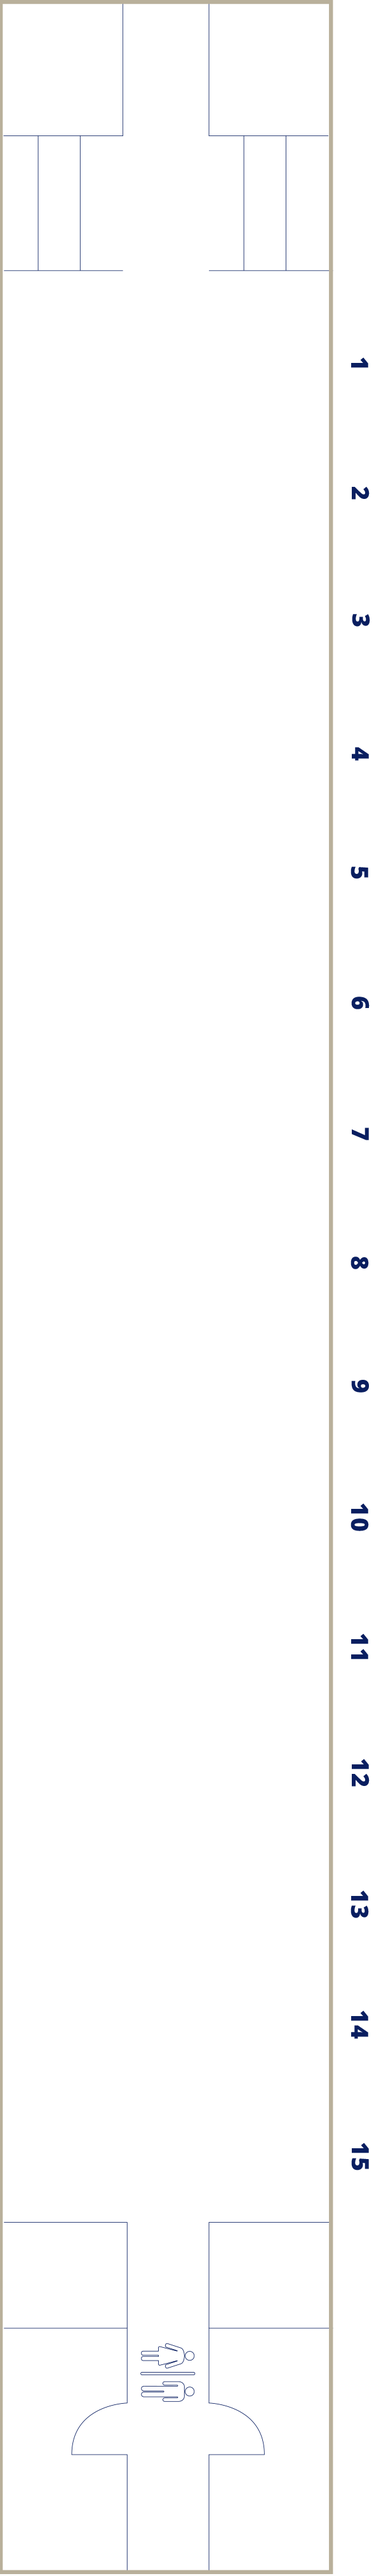
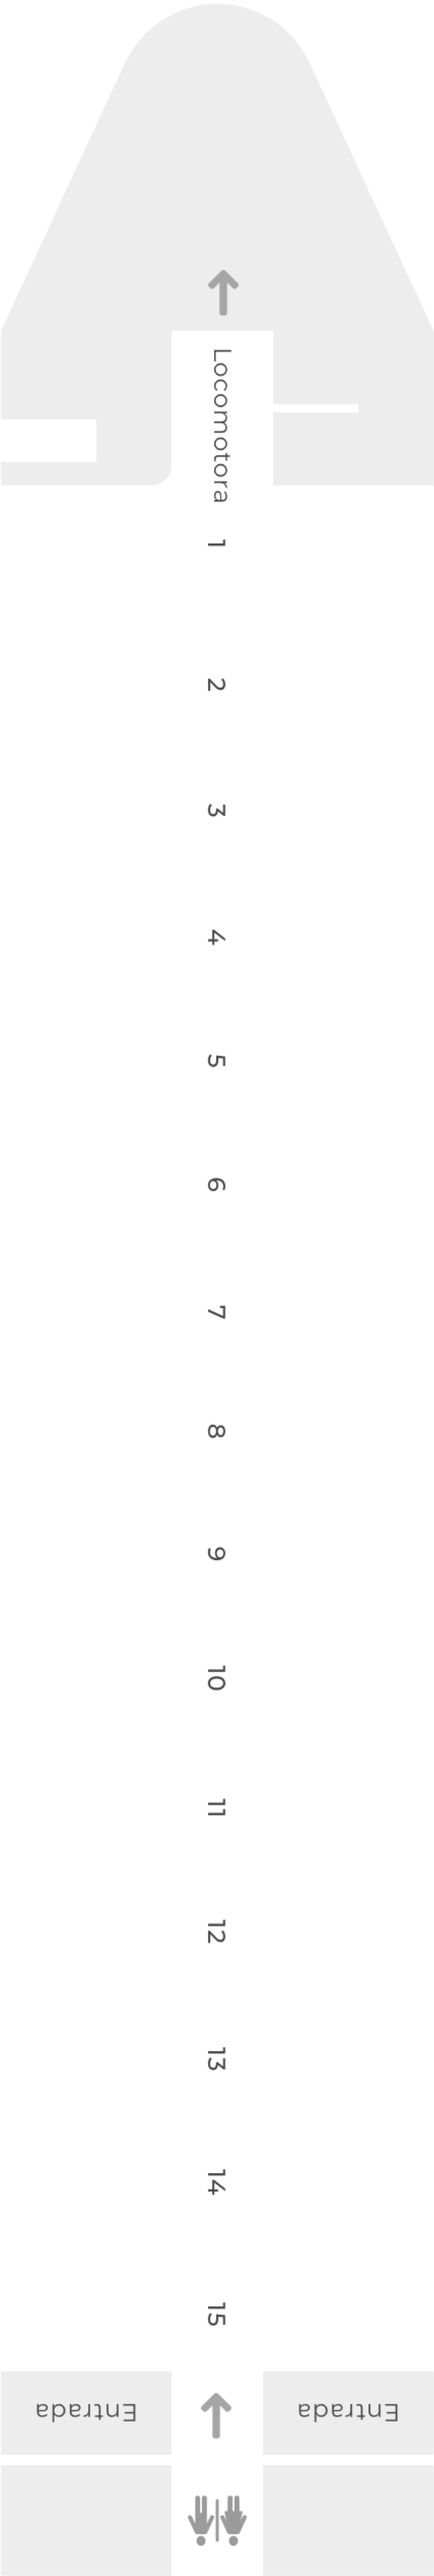
espacios tren, imagenes

diff --git a/rch-web/src/assets/css/global.css b/rch-web/src/assets/css/global.css
@@ -2290,8 +2290,8 @@ table.chepe.secondary tr:last-child {
 }
 
 .select-seat.classic .block-seats {
-    margin-top: 170px;
-    margin-right: 28px;
+    margin-top: 290px;
+    margin-right: -43px;
     margin-left: 2px;
 }
 
@@ -4241,6 +4241,13 @@ span.orange {
     height: 62px;
 }
 
+.select-seat.classic {
+    right: 6%;
+}
+.select-seat.classic .wagon-img-classic {
+    width: 123%;
+}
+
 
 /*---- Turista -----*/
 
@@ -4328,7 +4335,7 @@ FIXES RESPONSIVE
     }
     .seat-train {
         width: 100% !important;
-        height: 240px;
+        height: 352px;
     }
     /*.select-seat.premium {
         top: 70px;
@@ -4426,37 +4433,7 @@ FIXES RESPONSIVE
     }
 
 }
-@media (min-width: 1300px) {
-    .seat-train {
-        height: 416px;
-    }
-    .select-seat.classic, 
-    .select-seat.premium {
-        right: 0;
-    }
-    .select-seat .wagon-img-classic {
-        width: 105%;
-    }
-    .select-seat.premium .block-seats {
-        margin-top: 399px;
-        margin-right: -11px;
-        margin-left: -1px;
-    }
-    .select-seat.premium .row-seats {
-        margin-bottom: 8px;
-    }
-    .select-seat .row-seats .seat {
-        width: 44px;
-        height: 48px;
-    }
-    .premium .seat__border {
-        width: 96px;
-        height: 111px;
-    }
-    .select-seat__text {
-        left: 31%;
-    }
-}
+
 @media (min-width: 1200px) {
     .seat-train {
         height: 360px;
@@ -4487,6 +4464,44 @@ FIXES RESPONSIVE
 
 
 /* Down MediaQueries */
+
+@media (max-width: 1300px) {
+    .seat-train {
+        height: 416px;
+    }
+    .select-seat.classic, 
+    .select-seat.premium {
+        right: 0;
+    }
+    .select-seat .wagon-img-classic {
+        width: 105%;
+    }
+    .select-seat.premium .block-seats {
+        margin-top: 399px;
+        margin-right: -11px;
+        margin-left: -1px;
+    }
+    .select-seat.premium .row-seats {
+        margin-bottom: 8px;
+    }
+    .select-seat .row-seats .seat {
+        width: 44px;
+        height: 48px;
+    }
+    .premium .seat__border {
+        width: 96px;
+        height: 111px;
+    }
+    .select-seat__text {
+        left: 31%;
+    }
+
+    /*-- Classic --*/
+    .select-seat.classic .row-seats .seat {
+        width: 41px;
+        height: 44px;
+    }
+}
 
 @media (max-width: 1282px) {
     .col-full {
@@ -4526,6 +4541,17 @@ FIXES RESPONSIVE
     .table-horarios .table.chepe {
         font-size: 14px;
         height: 320px;
+    }
+    .select-seat__text {
+        -webkit-transform: translateX(-50%);
+        -moz-transform: translateX(-50%);
+        -ms-transform: translateX(-50%);
+        -o-transform: translateX(-50%);
+        transform: translateX(-50%);
+        left: 50%;
+    }
+    .seat-train {
+        height: 356px;
     }
 }
 
@@ -4677,6 +4703,9 @@ FIXES RESPONSIVE
         -ms-transform: translateX(-50%);
         -o-transform: translateX(-50%);
     }
+    .seat-train {
+        height: 1477px;
+    }
 }
 
 @media (max-width: 768px) {
@@ -4685,6 +4714,9 @@ FIXES RESPONSIVE
     }
     .modalbox-link {
         font-size: 17px;
+    }
+    .seat-train {
+        height: 1587px;
     }
 }
 
